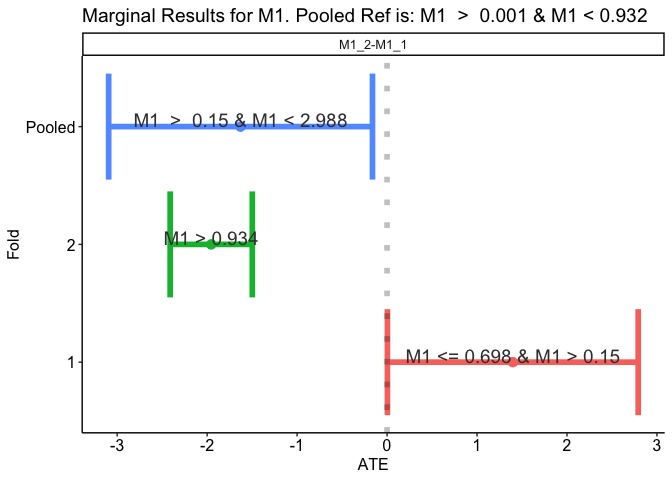
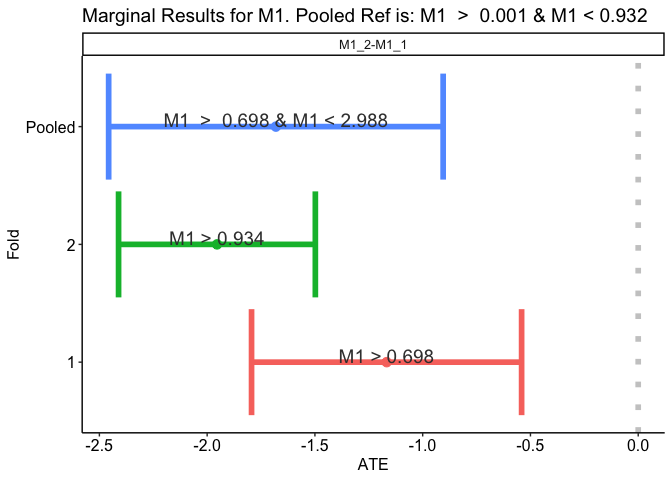
Trying to remove double images from readme

diff --git a/README.md b/README.md
@@ -422,7 +422,7 @@ sim_results <- CVtreeMLE(data = sim_data,
 
 proc.time() - ptm 
 #>    user  system elapsed 
-#> 441.533  20.211 252.163
+#> 417.098  19.501 233.352
 ```
 
 Let’s first look at the RMSE for the iterative back-fitting models.
@@ -458,7 +458,7 @@ RMSE
 M1
 </td>
 <td style="text-align:right;">
-0.0648278
+0.0657474
 </td>
 </tr>
 <tr>
@@ -466,7 +466,7 @@ M1
 M2
 </td>
 <td style="text-align:right;">
-0.0641076
+0.0641826
 </td>
 </tr>
 <tr>
@@ -474,7 +474,7 @@ M2
 M3
 </td>
 <td style="text-align:right;">
-0.0637138
+0.0642372
 </td>
 </tr>
 <tr>
@@ -482,7 +482,7 @@ M3
 M1M2M3
 </td>
 <td style="text-align:right;">
-0.0304040
+0.0260711
 </td>
 </tr>
 </tbody>
@@ -540,16 +540,16 @@ Fraction Covered
 <tbody>
 <tr>
 <td style="text-align:right;">
-5.983
+5.842
 </td>
 <td style="text-align:right;">
-0.014
+0.02
 </td>
 <td style="text-align:right;">
-5.955
+5.803
 </td>
 <td style="text-align:right;">
-6.01
+5.881
 </td>
 <td style="text-align:right;">
 0
@@ -561,14 +561,14 @@ Fraction Covered
 M1M2M3
 </td>
 <td style="text-align:right;">
-0.268
+0.272
 </td>
 <td style="text-align:left;">
 M1 &gt; 0.021 & M1 &lt; 0.953 & M2 &gt; 2.011 & M2 &lt; 3.994 & M3 &gt;
-2.512 & M3 &lt; 4.98
+2.484 & M3 &lt; 4.98
 </td>
 <td style="text-align:right;">
-0.9666667
+0.9508197
 </td>
 </tr>
 </tbody>
@@ -642,28 +642,28 @@ Variables
 1
 </td>
 <td style="text-align:left;">
-5.76
+5.488
 </td>
 <td style="text-align:left;">
-0.076
+0.08
 </td>
 <td style="text-align:left;">
-5.611
+5.332
 </td>
 <td style="text-align:left;">
-5.909
-</td>
-<td style="text-align:left;">
-0
+5.644
 </td>
 <td style="text-align:left;">
 0
 </td>
 <td style="text-align:left;">
-0.151
+0
 </td>
 <td style="text-align:left;">
-M3 &gt; 2.5 & M2 &gt; 2.001 & M1 &lt;= 0.953
+0.178
+</td>
+<td style="text-align:left;">
+M2 &gt; 2.001 & M3 &gt; 2.484 & M1 &lt;= 0.953
 </td>
 <td style="text-align:left;">
 M1M2M3
@@ -695,7 +695,7 @@ M1M2M3
 0.416
 </td>
 <td style="text-align:left;">
-M1 &lt;= 0.934 & M2 &gt; 2.007 & M3 &gt; 2.478
+M1 &lt;= 0.934 & M2 &gt; 1.966 & M3 &gt; 2.478
 </td>
 <td style="text-align:left;">
 M1M2M3
@@ -706,29 +706,29 @@ M1M2M3
 Pooled
 </td>
 <td style="text-align:left;">
-5.822
+5.791
 </td>
 <td style="text-align:left;">
-0.081
+0.085
 </td>
 <td style="text-align:left;">
-5.6625
+5.6244
 </td>
 <td style="text-align:left;">
-5.9814
-</td>
-<td style="text-align:left;">
-0
+5.9579
 </td>
 <td style="text-align:left;">
 0
 </td>
 <td style="text-align:left;">
-0.382
+0
+</td>
+<td style="text-align:left;">
+0.388
 </td>
 <td style="text-align:left;">
 M1 &gt; 0.021 & M1 &lt; 0.953 & M2 &gt; 2.011 & M2 &lt; 3.994 & M3 &gt;
-2.512 & M3 &lt; 4.98
+2.484 & M3 &lt; 4.98
 </td>
 <td style="text-align:left;">
 M1M2M3
@@ -751,8 +751,6 @@ mixture_plots$M1M2M3
 ```
 
 ![](man/figures/README-plot%20sim%20mixture%20results-1.png)<!-- -->
-
-![](man/figures/README-plot%20sim%20mixture%20results-1.png)
 
 This plot shows the ATE specific for each fold and for the weighted-mean
 results over the fold with corresponding pooled variance. The rule is
@@ -803,25 +801,25 @@ RMSE
 M1\_2-M1\_1
 </td>
 <td style="text-align:right;">
--1.150
+-1.589
 </td>
 <td style="text-align:right;">
-0.286
+0.203
 </td>
 <td style="text-align:right;">
--1.710
+-1.987
 </td>
 <td style="text-align:right;">
--0.590
+-1.190
 </td>
 <td style="text-align:right;">
-5.8e-05
+0
 </td>
 <td style="text-align:right;">
-0.000173
+0
 </td>
 <td style="text-align:right;">
-2.011
+1.741
 </td>
 </tr>
 <tr>
@@ -829,25 +827,25 @@ M1\_2-M1\_1
 M2\_2-M2\_1
 </td>
 <td style="text-align:right;">
-1.580
+1.514
 </td>
 <td style="text-align:right;">
-0.196
+0.167
 </td>
 <td style="text-align:right;">
-1.196
+1.187
 </td>
 <td style="text-align:right;">
-1.965
+1.841
 </td>
 <td style="text-align:right;">
-0.0e+00
+0
 </td>
 <td style="text-align:right;">
-0.000000
+0
 </td>
 <td style="text-align:right;">
-1.723
+1.676
 </td>
 </tr>
 <tr>
@@ -867,10 +865,10 @@ M3\_2-M3\_1
 1.461
 </td>
 <td style="text-align:right;">
-0.0e+00
+0
 </td>
 <td style="text-align:right;">
-0.000000
+0
 </td>
 <td style="text-align:right;">
 1.565
@@ -892,8 +890,6 @@ marginal_plots$M1
 ```
 
 ![](man/figures/README-plot%20sim%20marginal%20results-1.png)<!-- -->
-
-![](man/figures/README-plot%20sim%20marginal%20results-1.png)
 
 Same as the mixtures plot, the marginal plot shows the ATE for an
 individual variable in the mixture with corresponding ATE and variance
